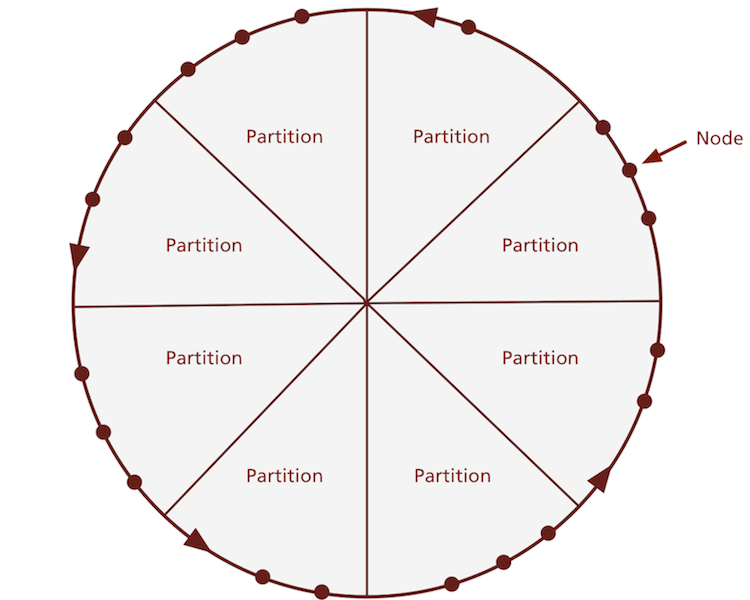
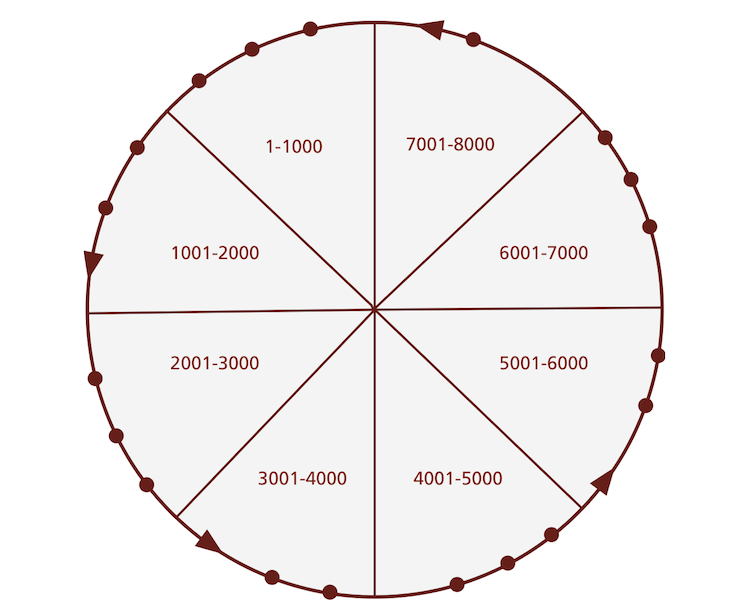
Added more pics for the hash ring, little cleanup.

diff --git a/style.css b/style.css
@@ -4,7 +4,7 @@ a {
 }
 
 .heart {
-  font-size: 72px;
+  font-size: 96px;
   color: red;
 }
 

diff --git a/05_pick_your_tools/05_pick_your_tools.md b/05_pick_your_tools/05_pick_your_tools.md
@@ -88,7 +88,7 @@
 ## Access objects by more complex queries: ##
 
 * Document databases
-* Redis (with lots of reverse lookups)
+* Redis (reverse lookups)
 
 !SLIDE bullets incremental
 
@@ -98,17 +98,17 @@
 
 !SLIDE bullets incremental
 
-## Reporting-style ad-hoc queries required: ##
+## Ad-hoc queries: ##
 
-* That can be a problem
 * MongoDB
+* Neo4j
 
 !SLIDE bullets incremental
 
 ## Tightly connected object graphs: ##
 
-* Graph database
-* Object database
+* Graph databases
+* Object databases
 * Riak
 
 !SLIDE bullets incremental
@@ -134,15 +134,11 @@
 
 !SLIDE
 
-## They don't want to replace, they accompany. ##
+## Polyglot data storage. ##
 
 !SLIDE
 
-## Polyglot data storage will become more and more common. ##
-
-!SLIDE
-
-## The name is still unfortunate, though. ##
+## The name is still unfortunate though. ##
 
 !SLIDE
 

diff --git a/04_scaling_out/04_scaling_out.md b/04_scaling_out/04_scaling_out.md
@@ -43,17 +43,28 @@
 
 ![Hash Ring](hash_ring.png)
 
+!SLIDE center
+
+## Data is partitioned into slices ##
+![Hash Ring Slices](hash_ring_slices.png)
+
+!SLIDE center
+
+## Replicated across N nodes ##
+![Hash Ring Replicas](hash_ring_replicas.png)
+
+!SLIDE center
+
+## Every node knows every key ##
+![Hash Ring Data flow](hash_ring_data_flow.png)
+
 !SLIDE bullets incremental
 
-* Data is partitioned into slices
-* Replicated across N nodes
+## Ensuring data consistency ##
+
 * Writes go to at least W replicas
 * Reads are successful from R replicas
 * N, R, W represent the quorum
-
-!SLIDE
-
-## Every node knows where every key is in the cluster. ##
 
 !SLIDE
 

diff --git a/03_the_contestants/03_the_contestants.md b/03_the_contestants/03_the_contestants.md
@@ -70,7 +70,7 @@
 
 * Built in 1989
 * Document-oriented
-* Offline-Replication (Multi-Master)
+* Offline-Replication
 * Unfortunately still in use
 
 !SLIDE bullets
@@ -80,7 +80,7 @@
 * CouchDB
 * Riak
 * MongoDB
-* XML Databases (gasp)
+* XML Databases
 
 !SLIDE bullets incremental
 
@@ -209,5 +209,5 @@
 
 !SLIDE
 
-## Some document databases can handle graphs as well. ##
+## Some document databases can handle graphs. ##
 

diff --git a/02_why_something_new/02_why_something_new.md b/02_why_something_new/02_why_something_new.md
@@ -28,9 +28,8 @@
 
 # Less structure #
 
-* Documents
+* Documents, loosely structured
 * Schemaless, not constrained
-* JSON (just an example)
 
 !SLIDE javascript
 
@@ -49,7 +48,7 @@
 
 !SLIDE center
 
-## NoSQL <span class="heart">♥</a> JSON ##
+# NoSQL <span class="heart">♥</a> JSON #
 
 !SLIDE bullets incremental
 
